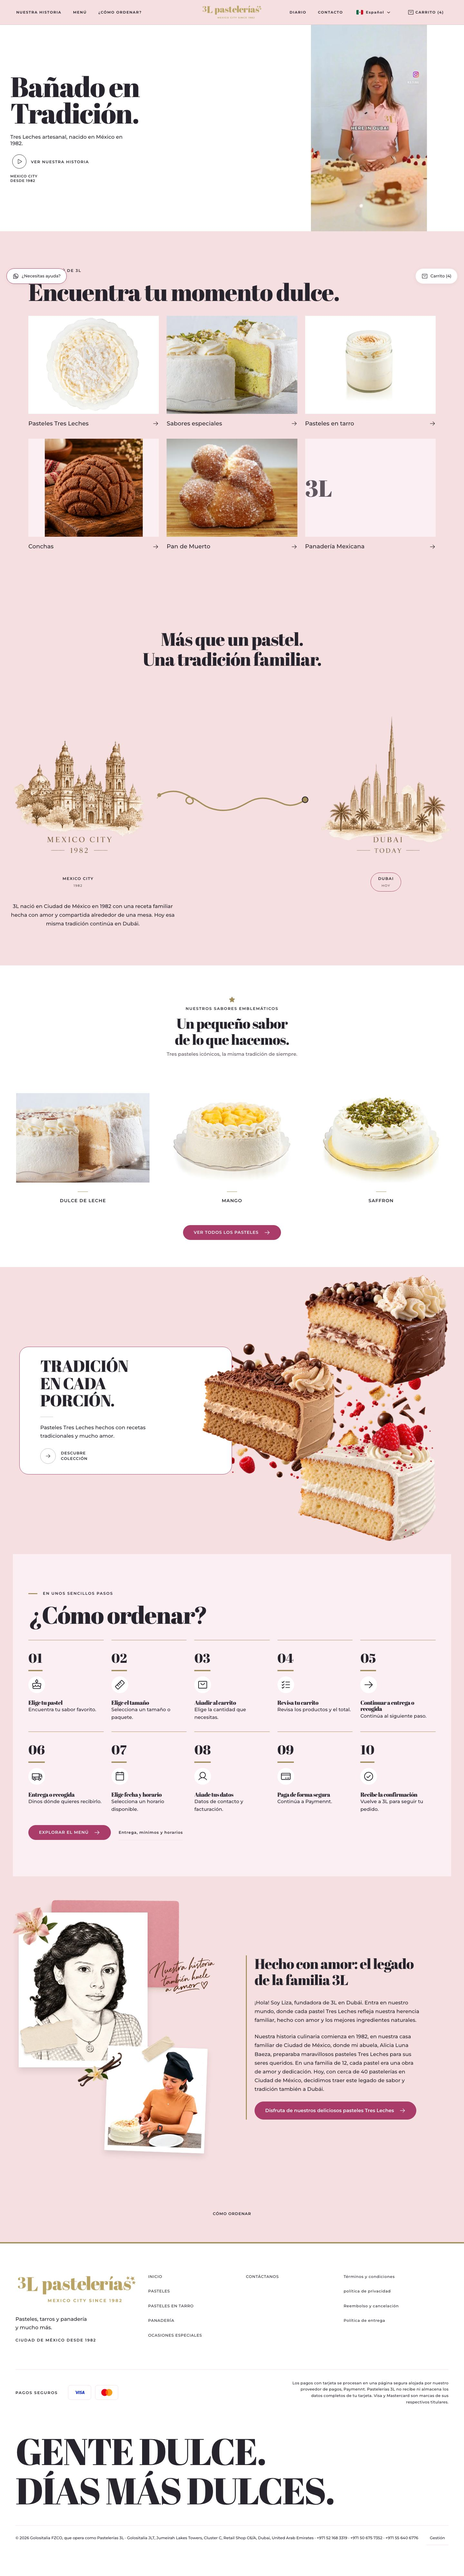
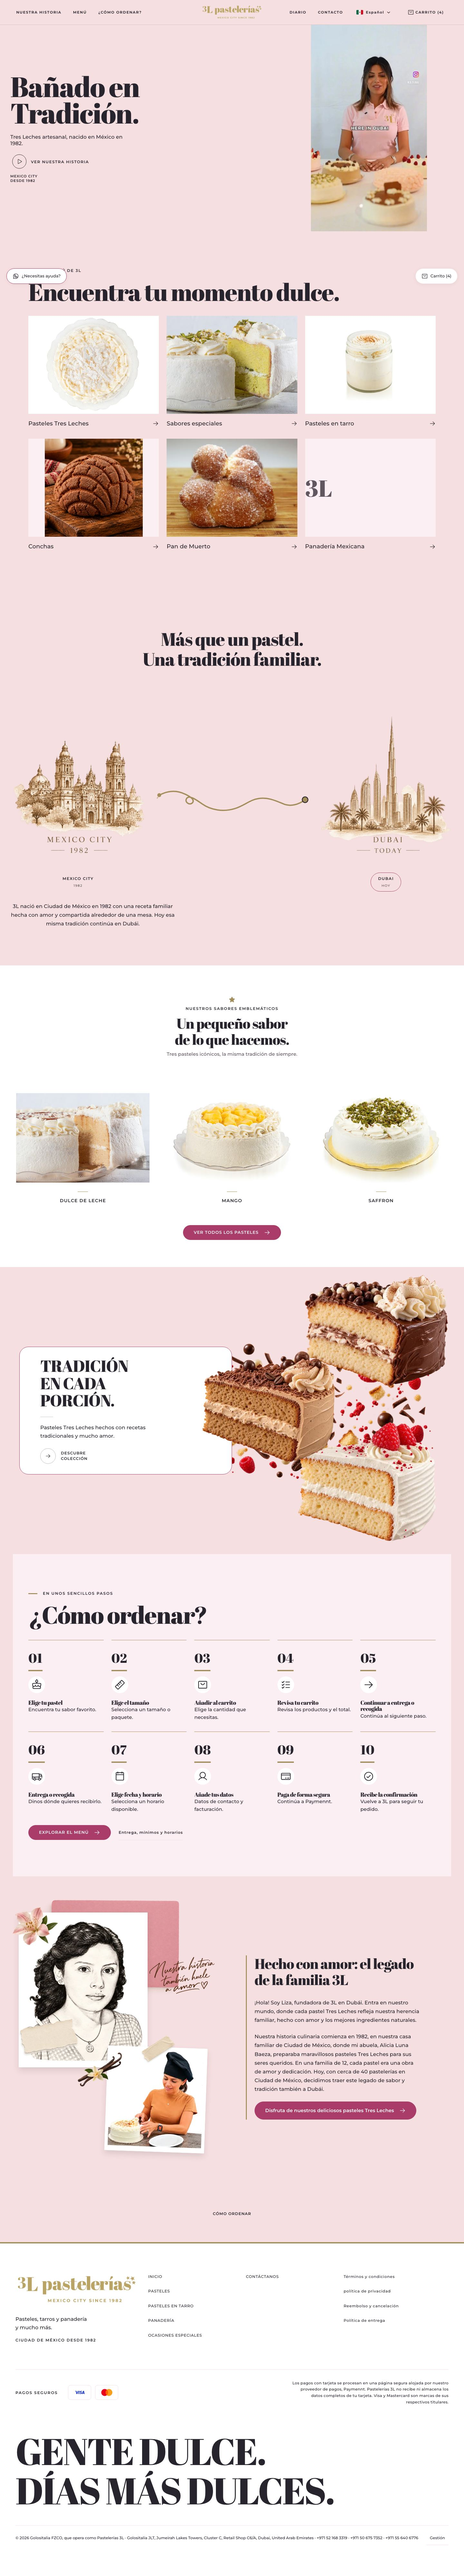
fix(brand): extend blush canvas through the mobile hero

Changed region(s): [[0.0, 0.0, 0.6875, 0.0935], [0.9062, 0.0, 1.0, 0.0935]]

diff --git a/src/brand/storefront.css b/src/brand/storefront.css
@@ -1177,7 +1177,7 @@
 }
 /* Approved vertical packaging film: keep the full frame and baked-in caption. */
 .ref-home .ref-hero {
-  background: var(--v2-white);
+  background: var(--v2-blush);
   min-height: 640px;
 }
 .ref-home .ref-hero video {
